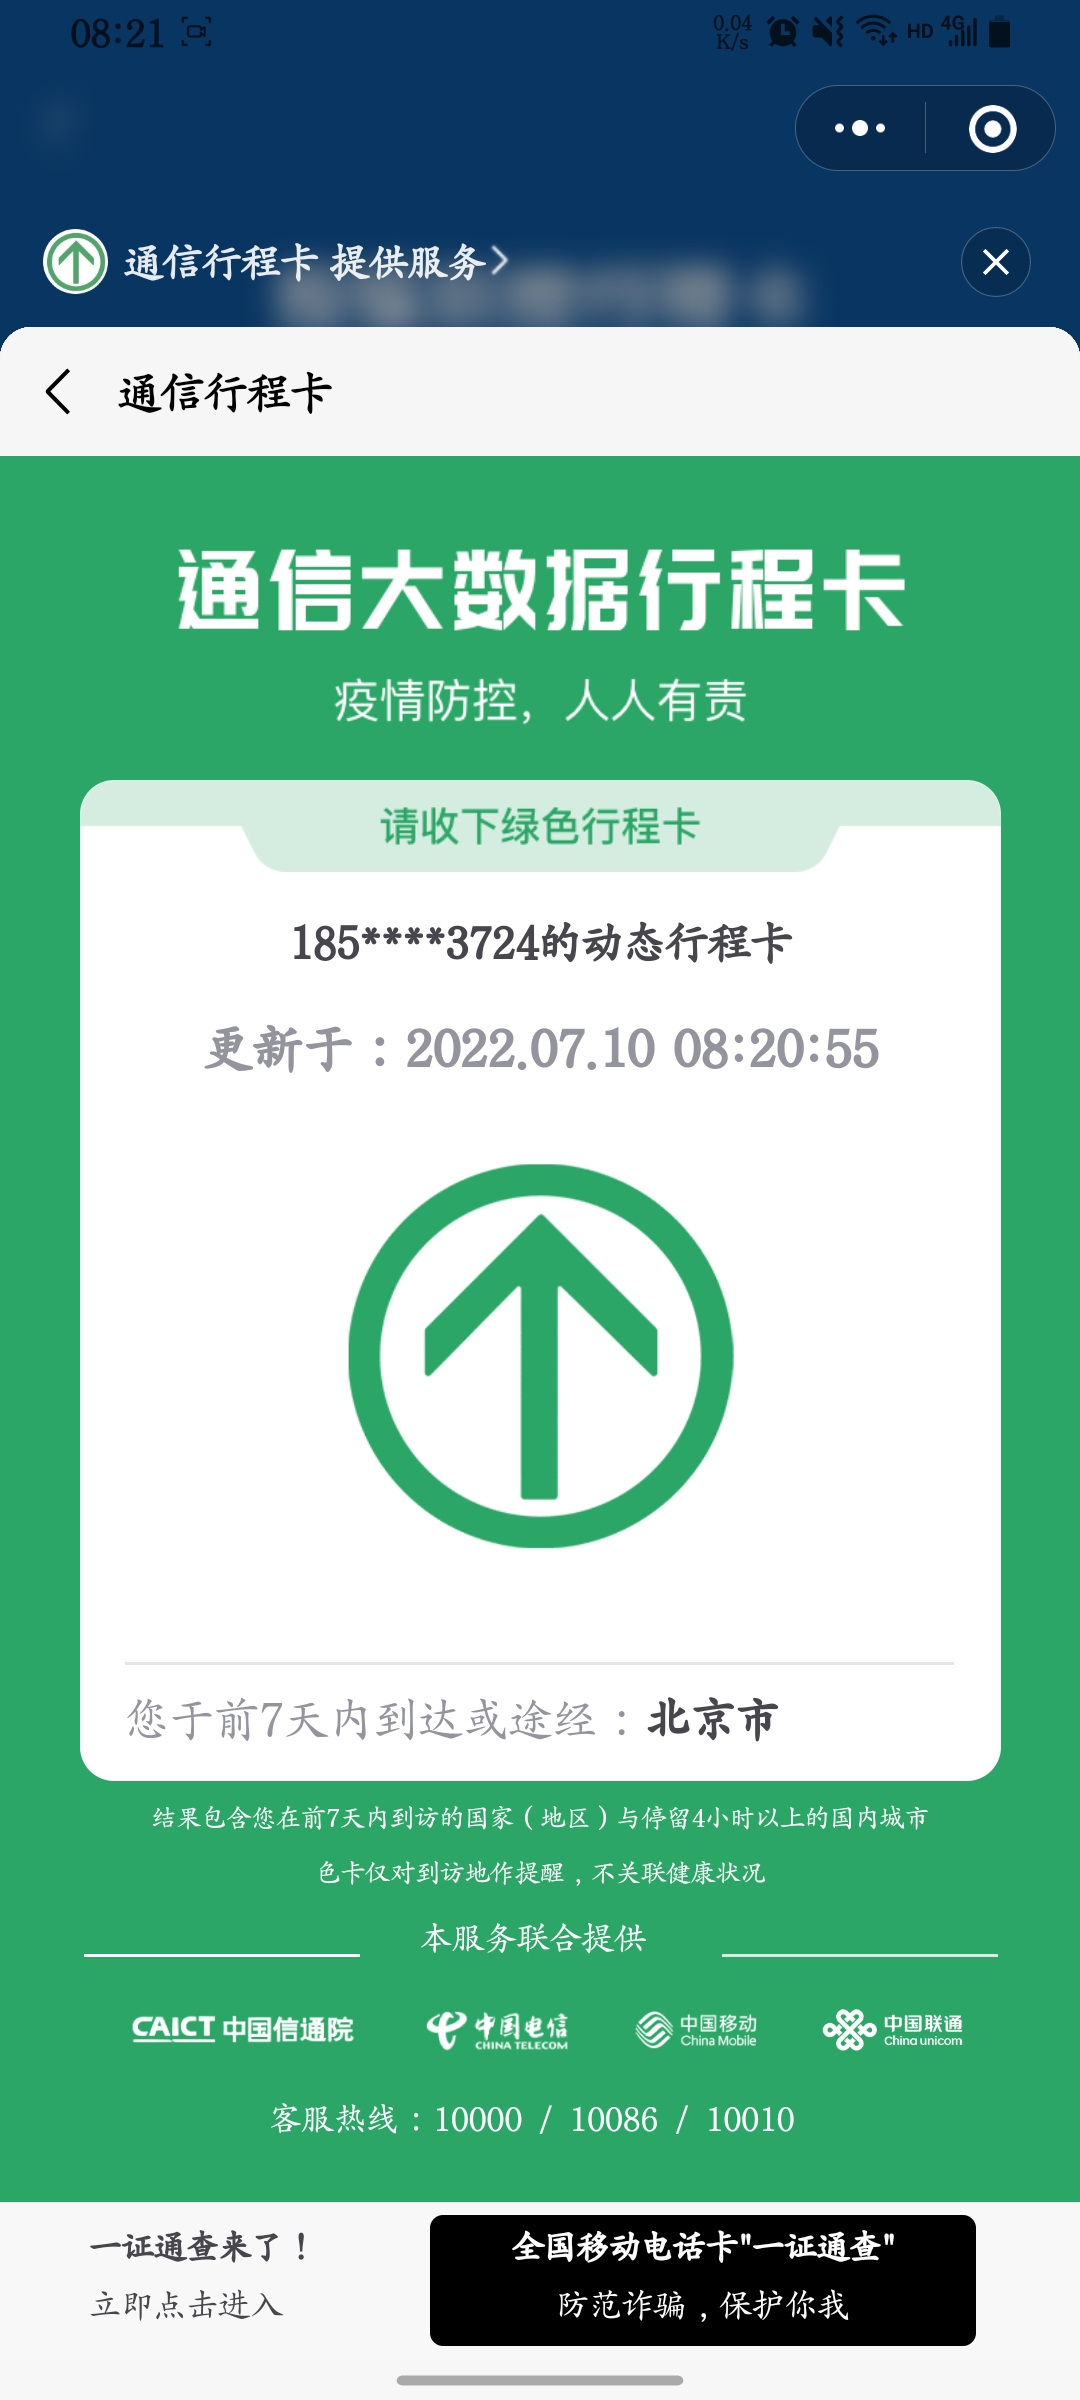
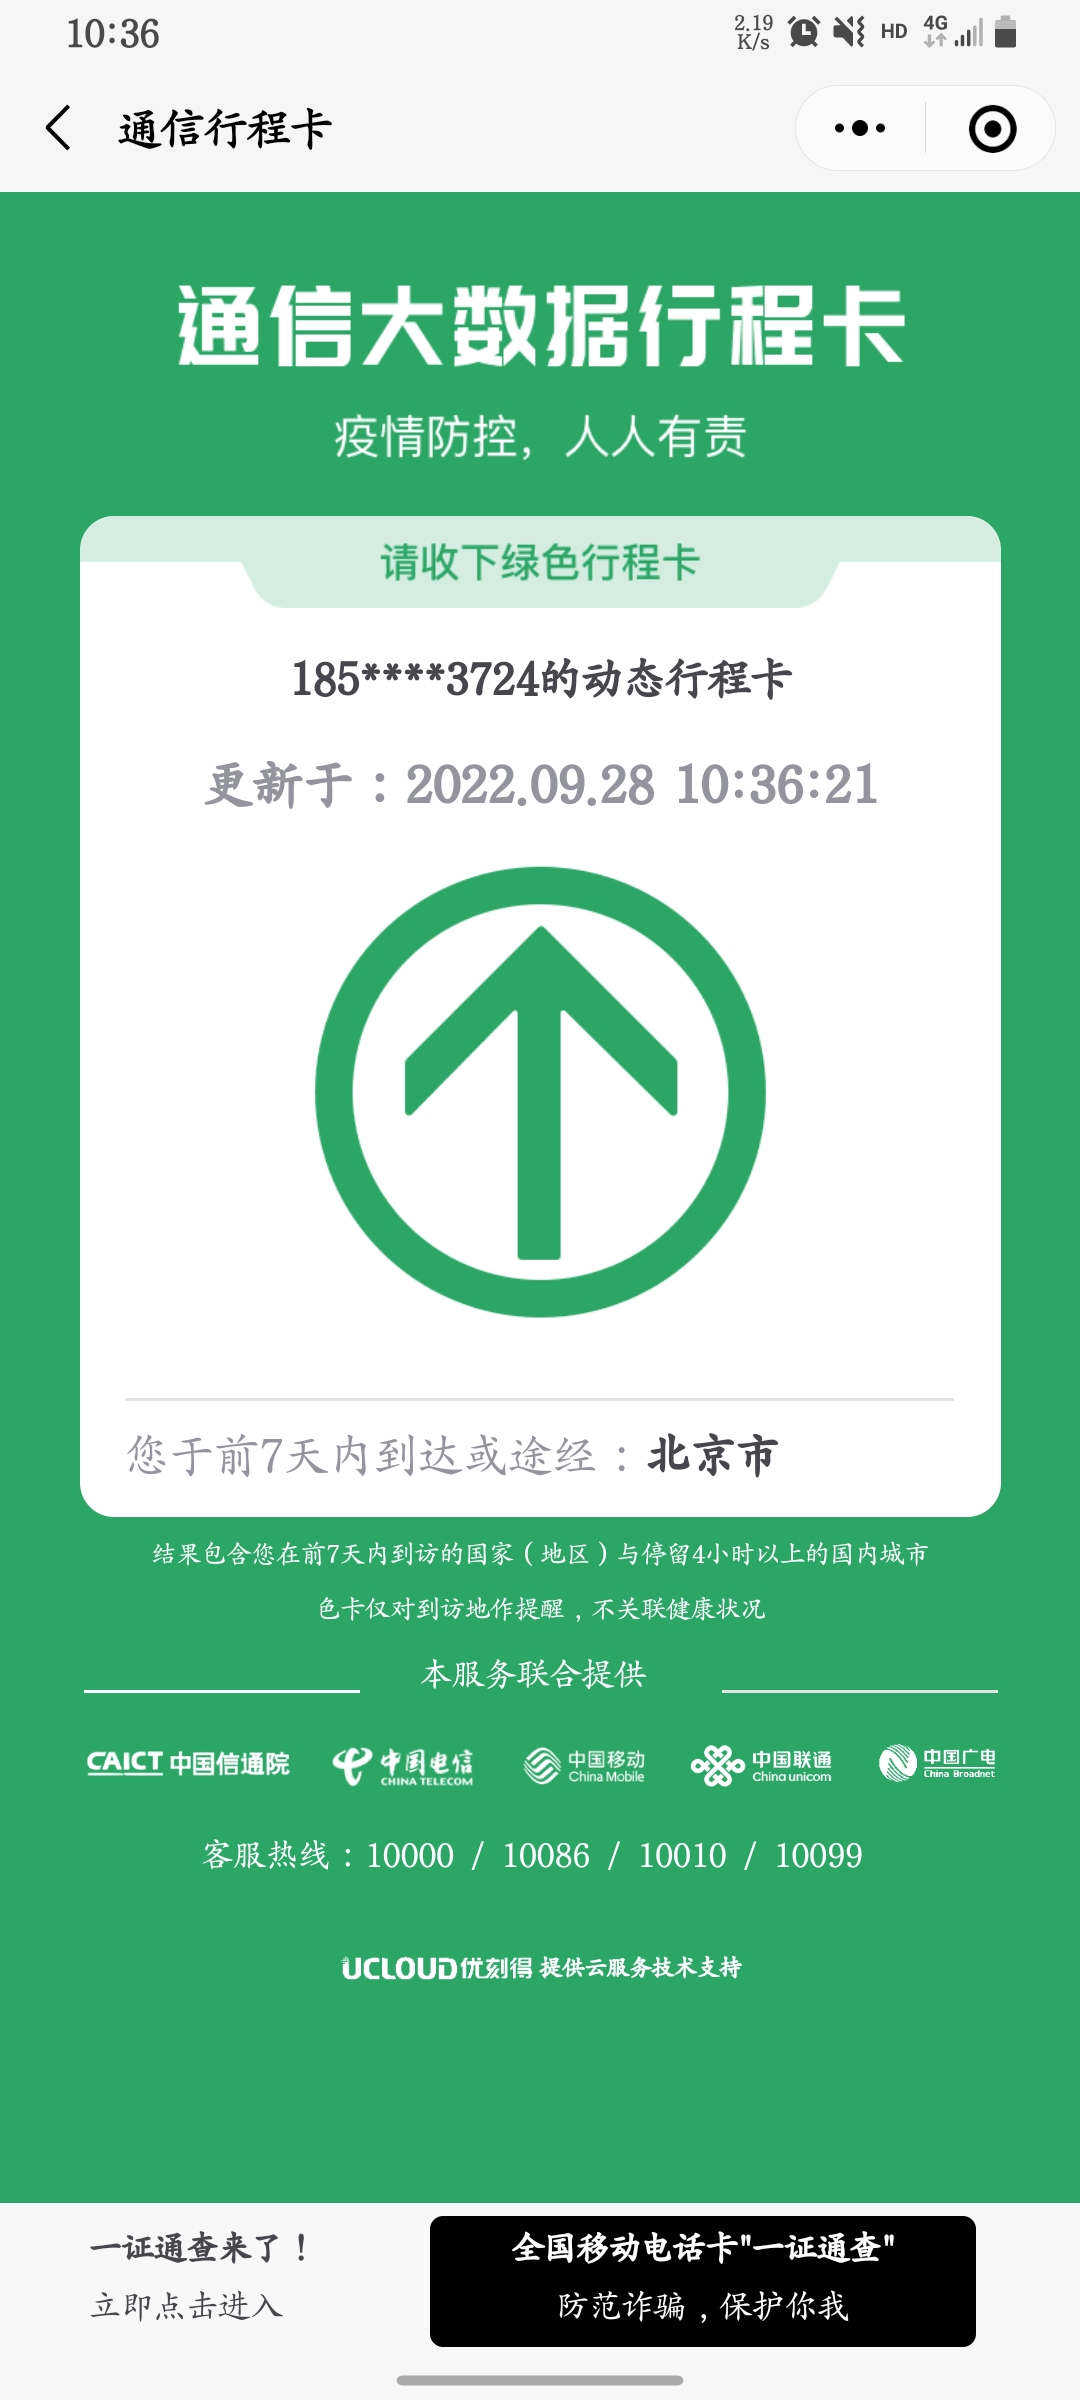
资源

diff --git a/xc.html b/xc.html
@@ -10,7 +10,7 @@
             height: 50px;
             width: 100px;
             left: 268px;
-            top: 922px;
+            top: 657px;
             z-index: 99;
             font-size:44px;
             text-align:center;
@@ -23,7 +23,7 @@
             height: 50px;
             width: 92px;
             left: 455px;
-            top: 922px;
+            top: 657px;
             z-index: 99;
             font-size:44px;
             text-align:center;
@@ -37,7 +37,7 @@
             width: 579px;
             z-index: 99;
             left: 409px;
-            top: 1025px;
+            top: 760px;
             background-color:white;
             color: #94949E;
             text-align:center;
@@ -54,7 +54,7 @@
             width: 330px;
             z-index: 99;
             left: 635px;
-            top: 1702px;
+            top: 1440px;
             font-size:40px;
             background-color:white;
             text-align:left;
@@ -67,7 +67,7 @@
             width: 300px;
             z-index: 99;
             left: 139px;
-            top: 1772px;
+            top: 1510px;
             font-size:40px;
             background-color:white;
             text-align:left;
@@ -79,7 +79,7 @@
             height: 515px;
             width: 515px;
             z-index: 99;
-            top: 1130px;
+            top: 860px;
             left: 282px;
             background:url("img/xctb.gif") no-repeat;
             background-size:cover;

diff --git a/index.html b/index.html
@@ -69,7 +69,7 @@
             <div class="row cl">
                 <div class="formControls col-sm-3 col-xs-3"></div>
                 <div class="formControls col-sm-6 col-xs-6">
-                    <a id="yx" class="btn btn-danger radius">应县绿码</a>
+                    <a id="yx" class="btn btn-danger radius">山西场所码(暂无法使用)</a>
                 </div>
             </div>
         </form>
